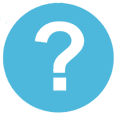
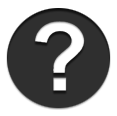
1. Changes to Make call to get_relationship action in Issues controller for empty relationship_id in order to go back to the default state of show page. 2. Reverted the behavior where the first thumbnail's info was being automatically generated 3. Cosmetic changes 4.

diff --git a/public/stylesheets/styles.css b/public/stylesheets/styles.css
@@ -3347,7 +3347,7 @@ cursor:default;
 	height:90px; width:140px; border:4px solid #2f2f2f;
 	background-position:center center;
 	background-repeat:no-repeat;
-	background-size:auto 90px;
+	background-size:150px auto;
 	text-align:center;
 	background-color:#fcfcfc;
 	}
@@ -3484,7 +3484,7 @@ cursor:default;
 	text-align:center;	
 	background-image:url('/images/issues/ques.png'); 
 	width:90px;
-	background-color:#505050;
+	background-color:#434343;
 }
 
 .relationship_suggestion_title{
@@ -3512,7 +3512,7 @@ cursor:default;
 	text-align:center;	
 	background-image:url('/images/issues/add_relation.png'); 
 	width:90px;
-	background-color:#505050;
+	background-color:#434343;
 }
 
 .relationship_thumb_addnew a{
@@ -4001,9 +4001,21 @@ cursor:default;
 	margin:0px 2px;
 }
 
-.reference_delete{float:right; display:none; opacity:0.7; margin-left:-14px; padding:1px;}
-.reference_delete:hover{opacity:1;}
-.reference_delete:active{opacity:0.6;background:#bebebe;}
+.reference_delete{float:right; display:none; width:12px; height:12px; opacity:0.7; margin-left:-16px; padding:2px;}
+.reference_delete:hover{opacity:1;background:#bebebe;}
+.reference_delete:active{opacity:0.6;background:#f5f5f5;}
+
+.del-reference, .del-comment{
+	background:url("/images/system/close1.png") no-repeat center center;
+	background-size:12px;
+	height:12px;
+	width:12px;	
+	display: block;  
+	height: 100%; 
+	text-indent: -9999em;
+	border:0px;	
+}
+
 .reference_container:hover .reference_delete{display:block;}
 .comment_container:hover .reference_delete{display:block;}
 

diff --git a/db/schema.rb b/db/schema.rb
@@ -10,7 +10,7 @@
 #
 # It's strongly recommended to check this file into your version control system.
 
-ActiveRecord::Schema.define(:version => 20120213002708) do
+ActiveRecord::Schema.define(:version => 20120222043522) do
 
   create_table "comments", :force => true do |t|
     t.string   "content"
@@ -61,9 +61,9 @@ ActiveRecord::Schema.define(:version => 20120213002708) do
     t.integer  "cause_id"
     t.datetime "created_at"
     t.datetime "updated_at"
-    t.integer  "user_id"
     t.string   "relationship_type"
     t.integer  "references_count",  :default => 0
+    t.integer  "user_id"
   end
 
   add_index "relationships", ["cause_id"], :name => "index_relationships_on_cause_id"

diff --git a/app/controllers/issues_controller.rb b/app/controllers/issues_controller.rb
@@ -123,7 +123,7 @@ require 'backports'
 
   def get_relationship
    
-   if params[:rel_id]
+   if params[:rel_id] && params[:rel_id] != ""
       @relationship = Relationship.find(params[:rel_id])
       @rel_references = @relationship.references
 
@@ -136,7 +136,12 @@ require 'backports'
          @rel_issue, @rel_cause = @rel_cause, @rel_issue  
       end
       @causal_sentence = params[:sentence]
-    end
+   
+   elsif params[:issueid] 
+      @issue = Issue.find(params[:issueid])
+   end
+
+   
 
     respond_to do |format|
       format.html 

diff --git a/db/migrate/20120222043327_add_user_id_to_relationships.rb b/db/migrate/20120222043327_add_user_id_to_relationships.rb
@@ -1,0 +1,9 @@
+class AddUserIdToRelationships < ActiveRecord::Migration
+  def self.up
+    add_column :relationships, :user_id, :integer
+  end
+
+  def self.down
+    remove_column :relationships, :user_id
+  end
+end

diff --git a/db/migrate/20120222043522_add_user_id_to_references.rb b/db/migrate/20120222043522_add_user_id_to_references.rb
@@ -1,0 +1,9 @@
+class AddUserIdToReferences < ActiveRecord::Migration
+  def self.up
+    add_column :references, :user_id, :integer
+  end
+
+  def self.down
+    remove_column :references, :user_id
+  end
+end

diff --git a/app/controllers/mapvisualizations_controller.rb b/app/controllers/mapvisualizations_controller.rb
@@ -69,6 +69,7 @@ class MapvisualizationsController < ApplicationController
         return
       end
     end
+  end
 
 ############################################################
 ### OLD RESTFUL METHODS
